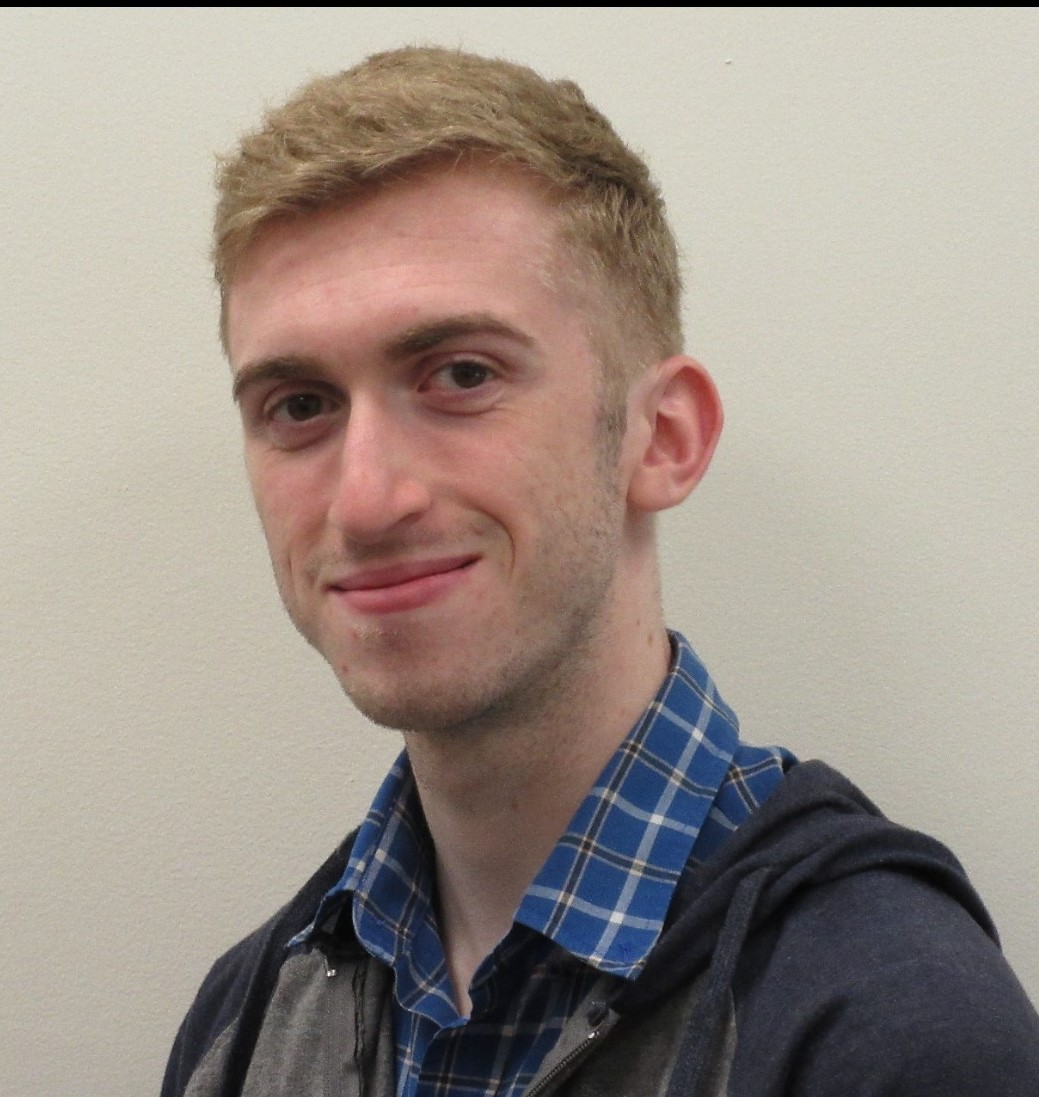
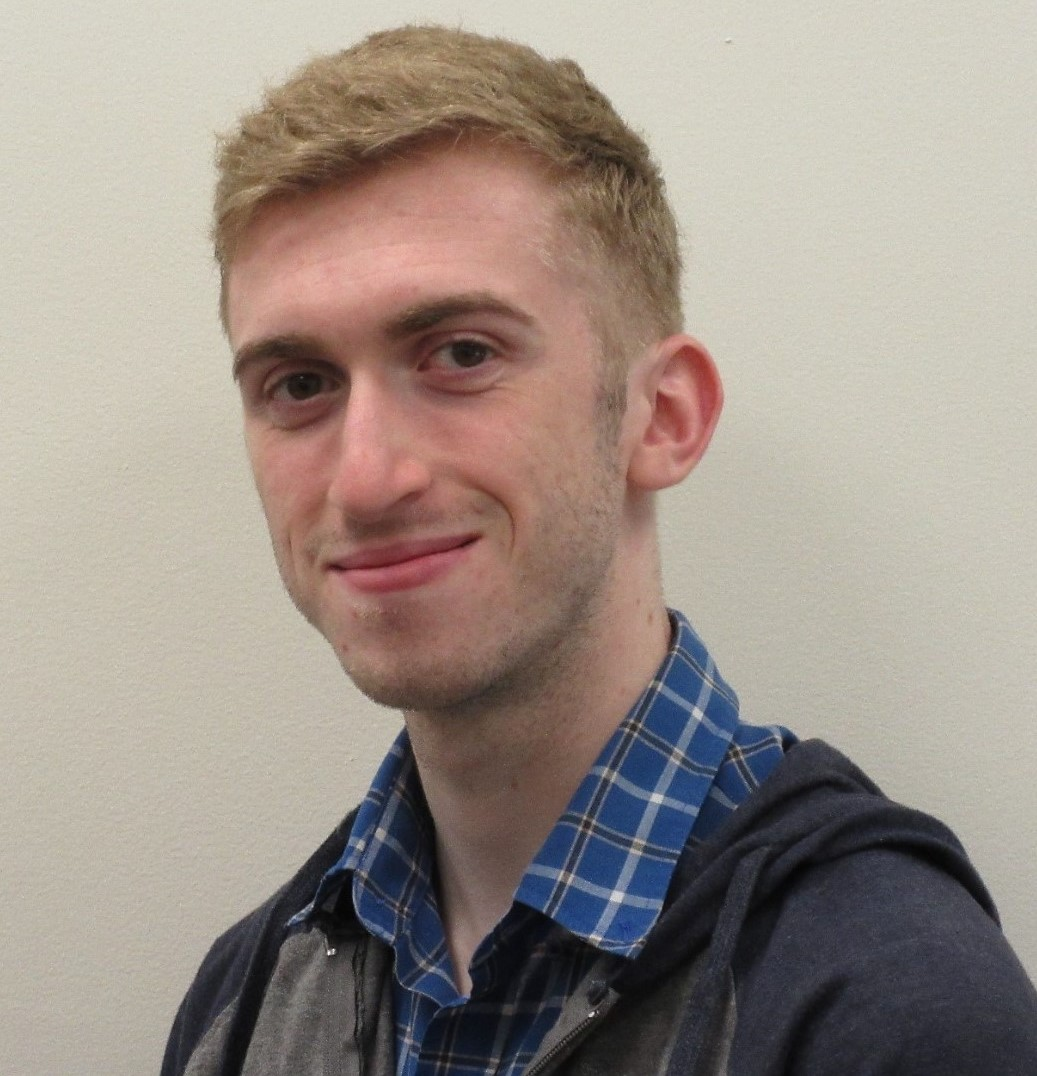
cropping / resizing profile

diff --git a/subDirTest/main.css b/subDirTest/main.css
@@ -16,8 +16,7 @@
   margin: 0;
 }
 .profilePic{
-  border-radius: 100%;
-  width: 300 px;
-  height: 300 px;
+  width: 150px;
+  height: 150px;
   border-radius: 100%;
 }
